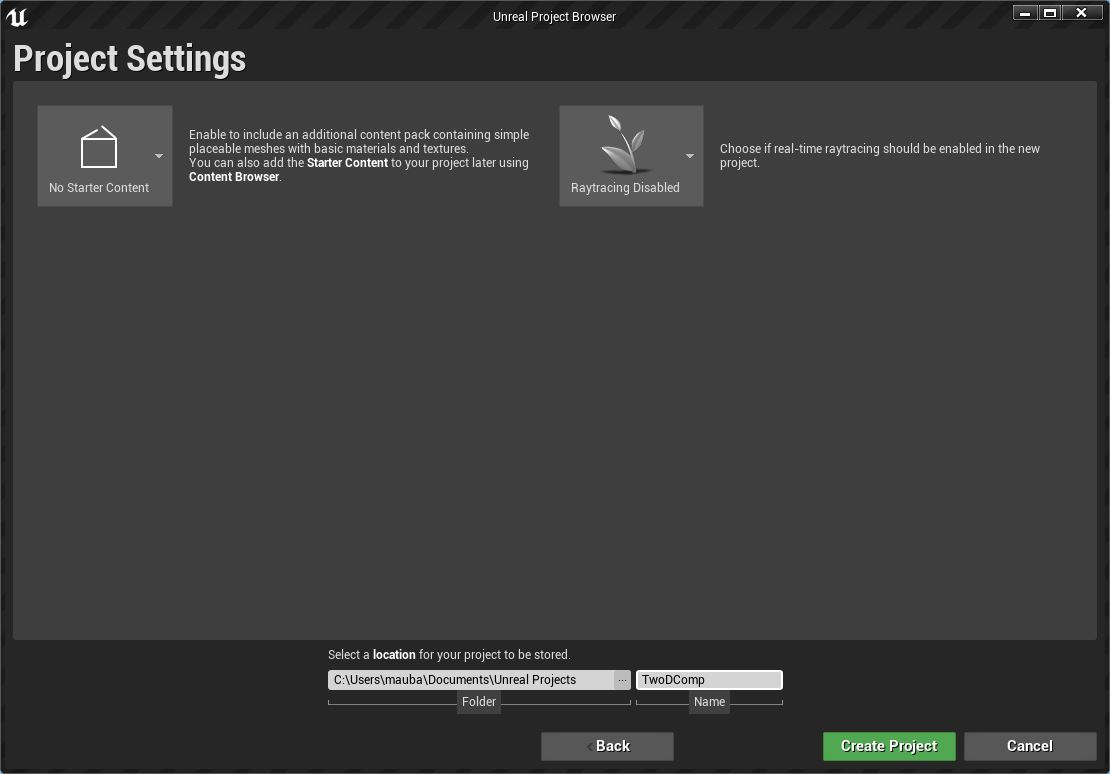
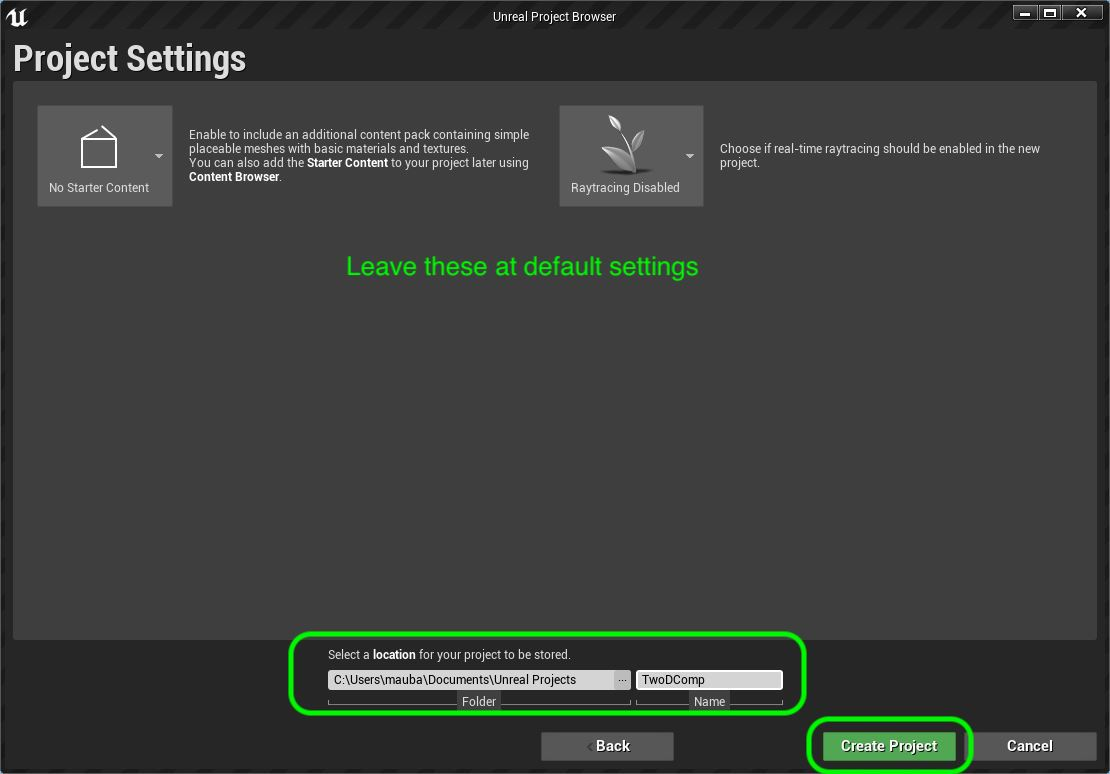
added eu4 setup

Changed region(s): [[0.245, 0.8062, 0.8883, 1.0], [0.3063, 0.3101, 0.6432, 0.3721]]

diff --git a/setup/README.md b/setup/README.md
@@ -26,5 +26,6 @@
 
 ***
 
-6. 
-![Epic project type selector](../images/blankProject.jpg)projectSettings
+6. Leave the settings at default and select a local folder to store your projetc.  This will create a folder with the name of the project you entered.  I called mine `TwoDComposite`.  No spaces can be used in a project name. Make sure you **do not** store this on a cloud based folder this needs to be on your local hard drive.
+
+![Epic project type selector](../images/projectSettings.jpg)projectSettings
